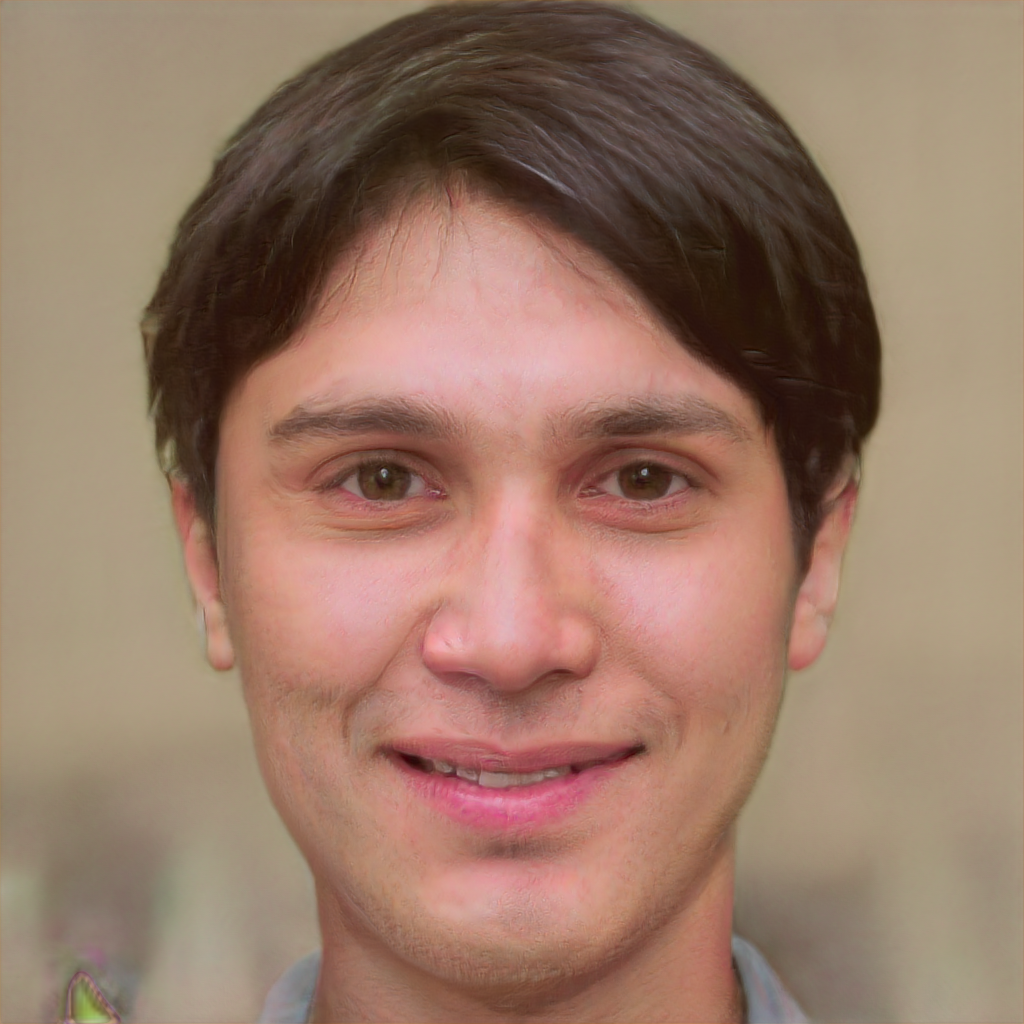
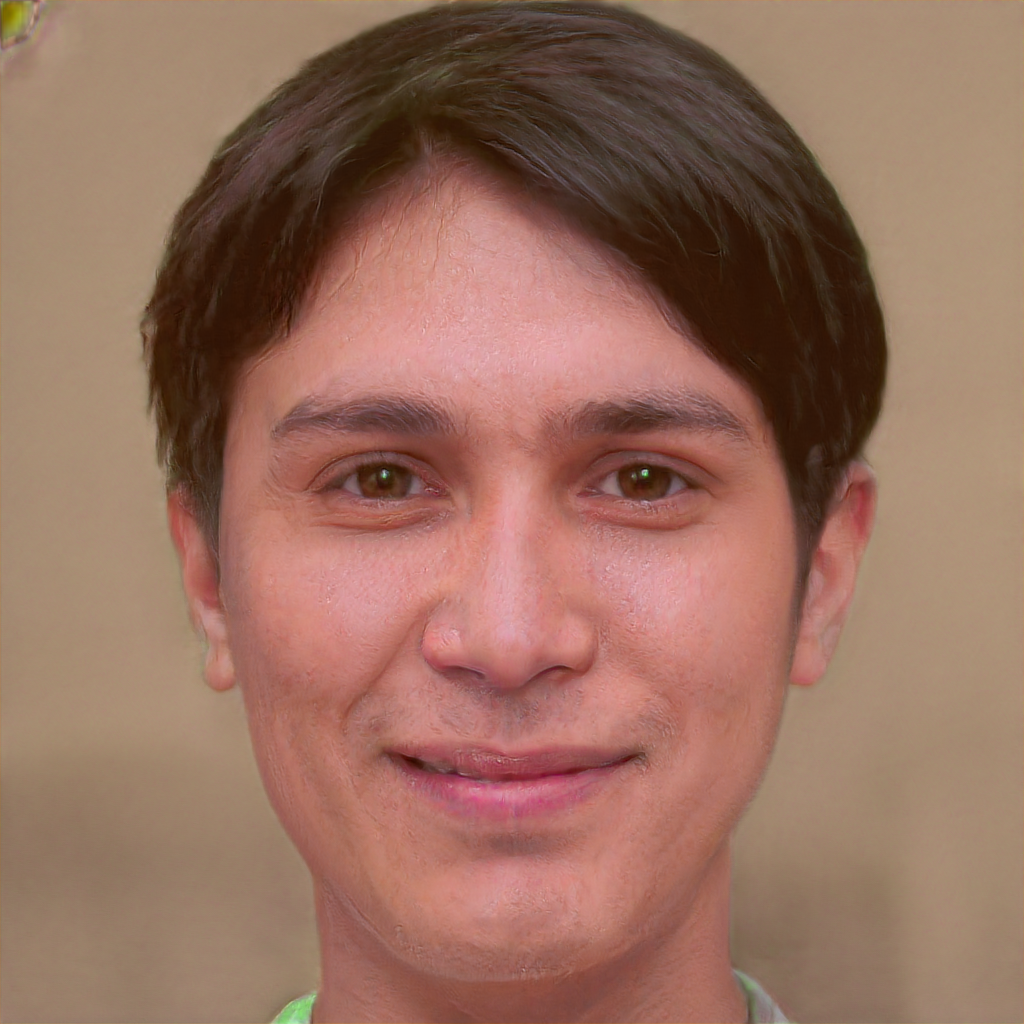
Regenerate the README sweep images (stale since the best_im fix)
All 10 parameter-sweep images predated 7618167, which changed WHICH iterate gets saved
(the best one, not the last). Regenerated with the current code using the exact commands
the README documents: -seed 42 -steps 100, one parameter changed per row.

Every variant still converges at 100 steps (no NOT CONVERGED warnings), and the
converged-step values are unchanged (45 / 27 / 28 / 20), so the -steps 100 in these
worked examples remains correct -- demo and demo2 are both easy enough. The GEOCROSS
values moved, so the tables are updated to match.

The demo2 prose was describing images that no longer exist, so it is rewritten to
describe the ones that do. It had grouped tile_latent WITH no_geocross as "darker-haired,
warmer-toned"; in the regenerated set they are distinct. no_geocross is now the standout
and makes the point far better: with the realism term deleted it drifts visibly off the
manifold -- darkest hair, warmer skin, and speckled colour artifacts around the mouth and
collar -- while still hitting L2 0.0020, and getting there FASTEST (step 20). That is the
argument for GEOCROSS in a single image.

Untouched: the 15 untracked demo3/demo4/demo5_* sweep images, which the README does not
reference and whose generating parameters aren't recorded.

diff --git a/README.md b/README.md
@@ -197,11 +197,11 @@ To make the knobs above concrete, here is the same input (`input/demo.png`) supe
 
 | Output              | Command (all share `-seed 42 -steps 100`)       | What's different                                              | Final `L2` | Final `GEOCROSS` | Converged |
 | ------------------- | ----------------------------------------------- | ------------------------------------------------------------- | ---------- | ---------------- | --------- |
-| `baseline.png`      | `python run.py`                                 | defaults (`100*L2+0.05*GEOCROSS`, `noise_type trainable`, W+) | `0.0020`   | `0.566`          | step 100  |
+| `baseline.png`      | `python run.py`                                 | defaults (`100*L2+0.05*GEOCROSS`, `noise_type trainable`, W+) | `0.0020`   | `0.523`          | step 100  |
 | `tile_latent.png`   | `python run.py -tile_latent`                    | one shared latent (W space) instead of 18 (W+)                | `0.0020`   | `0.000`          | step 45   |
 | `geocross_high.png` | `python run.py -loss_str "100*L2+1.0*GEOCROSS"` | 20× stronger realism/spread penalty                           | `0.0020`   | `0.030`          | step 100  |
 | `no_geocross.png`   | `python run.py -loss_str "100*L2"`              | realism penalty removed entirely                              | `0.0020`   | _(n/a)_          | step 27   |
-| `noise_fixed.png`   | `python run.py -noise_type fixed`               | noise frozen at random init, not optimized                    | `0.0020`   | `0.659`          | step 100  |
+| `noise_fixed.png`   | `python run.py -noise_type fixed`               | noise frozen at random init, not optimized                    | `0.0020`   | `0.852`          | step 100  |
 
 | baseline                                                 | tile_latent                                                    | geocross_high                                                      | no_geocross                                                    | noise_fixed                                                    |
 | -------------------------------------------------------- | -------------------------------------------------------------- | ------------------------------------------------------------------ | -------------------------------------------------------------- | -------------------------------------------------------------- |
@@ -220,14 +220,18 @@ Things to notice, tying back to the explanations above:
 
 | Output                    | What's different                  | Final `L2` | Final `GEOCROSS` | Converged |
 | ------------------------- | --------------------------------- | ---------- | ---------------- | --------- |
-| `demo2_baseline.png`      | defaults                          | `0.0020`   | `0.608`          | step 100  |
+| `demo2_baseline.png`      | defaults                          | `0.0020`   | `0.523`          | step 100  |
 | `demo2_tile_latent.png`   | `-tile_latent` (W space)          | `0.0020`   | `0.000`          | step 28   |
-| `demo2_geocross_high.png` | `-loss_str "100*L2+1.0*GEOCROSS"` | `0.0020`   | `0.027`          | step 100  |
+| `demo2_geocross_high.png` | `-loss_str "100*L2+1.0*GEOCROSS"` | `0.0020`   | `0.026`          | step 100  |
 | `demo2_no_geocross.png`   | `-loss_str "100*L2"`              | `0.0020`   | _(n/a)_          | step 20   |
-| `demo2_noise_fixed.png`   | `-noise_type fixed`               | `0.0020`   | `0.574`          | step 100  |
+| `demo2_noise_fixed.png`   | `-noise_type fixed`               | `0.0020`   | `0.572`          | step 100  |
 
 | baseline                                                             | tile_latent                                                                | geocross_high                                                                  | no_geocross                                                                | noise_fixed                                                                |
 | -------------------------------------------------------------------- | -------------------------------------------------------------------------- | ------------------------------------------------------------------------------ | -------------------------------------------------------------------------- | -------------------------------------------------------------------------- |
 | ![demo2 baseline](./readme_resources/experiments/demo2_baseline.png) | ![demo2 tile_latent](./readme_resources/experiments/demo2_tile_latent.png) | ![demo2 geocross_high](./readme_resources/experiments/demo2_geocross_high.png) | ![demo2 no_geocross](./readme_resources/experiments/demo2_no_geocross.png) | ![demo2 noise_fixed](./readme_resources/experiments/demo2_noise_fixed.png) |
 
-Every variant still reaches the same `L2` (`0.0020`) — they all downscale onto the input equally well — but now they clearly disagree about _who the person is_: `tile_latent` and `no_geocross` settle on a noticeably darker-haired, warmer-toned face, while the others stay lighter. Same blurry input, same starting latent, different knobs → different believable people. That gap between "matches the pixels" and "which face you get" is the whole point of PULSE, and it widens as the input gets harder.
+Every variant still reaches the same `L2` (`0.0020`) — they all downscale onto the input equally well — but now they clearly disagree about _who the person is_. `baseline`, `geocross_high` and `noise_fixed` cluster around the same light-brown-haired, smiling man. `tile_latent` lands on a visibly different, darker-haired one. And `no_geocross` — the run with the realism term deleted — goes furthest: darkest hair, a warmer, redder skin tone, and, tellingly, **visible speckled colour artifacts** around the mouth and collar.
+
+That last one is the argument for `GEOCROSS` in a single image. With nothing holding the 18 style vectors together, the optimizer is free to wander off the manifold of realistic faces, and it does — it finds a solution that downscales onto the input perfectly (`L2 0.0020`, and it gets there **fastest**, by step 20) while no longer looking entirely like a photograph. Matching the pixels and staying a plausible face are genuinely different objectives, and this is what it looks like when you only ask for the first one.
+
+Same blurry input, same starting latent, different knobs → different believable people. That gap between "matches the pixels" and "which face you get" is the whole point of PULSE, and it widens as the input gets harder.
